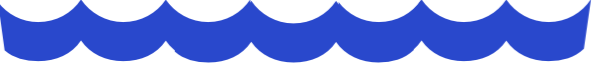
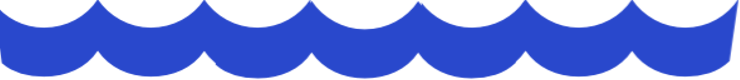
final

Changed region(s): [[0.0, 0.0, 1.0, 0.9867], [0.1206, 0.0, 0.7538, 0.3733], [0.7236, 0.0, 0.8744, 0.3733]]

diff --git a/css/style.css b/css/style.css
@@ -31,30 +31,93 @@ to {background-position: 100% 0;}
 
   }
 }
+@keyframes cloudone {
+  0% {
+    transform: scale(1.1);
+  }
+
+  25% {
+    transform: scale(1.15);
+  }
+  50% {
+    transform: scale(1.1);
+  }
+
+  75% {
+    transform: scale(1.15);
+  }
+
+  100% {
+    transform: scale(1.1);
+
+  }
+}
+@keyframes cloudtwo {
+  0% {
+    transform: scale(1.15);
+  }
+
+  25% {
+    transform: scale(1.1);
+  }
+  50% {
+    transform: scale(1.15);
+  }
+
+  75% {
+    transform: scale(1.1);
+  }
+
+  100% {
+    transform: scale(1.15);
+
+  }
+}
+@keyframes cloudthree {
+  0% {
+    transform: scale(1.3);
+  }
+
+  25% {
+    transform: scale(1.2);
+  }
+  50% {
+    transform: scale(1.4);
+  }
+
+  75% {
+    transform: scale(1.3);
+  }
+
+  100% {
+    transform: scale(1.2);
+
+  }
+}
 
 .a {
 position: absolute;
 z-index: 10;
-top: 0;
+top: 10px;
 left: 20%;
-height: 150px;
-animation: grow 6s ease-in-out infinite alternate;
+height: 20vh;
+animation: cloudone 6s ease-in-out infinite alternate;
 }
 .l {
 	position: absolute;
 	z-index: 10;
 	top: 100px;
 	left: 30%;
-	height: 150px;
-	animation: grow 6s ease-in-out infinite alternate;
+	height: 20vh;
+	animation: cloudtwo 6s ease-in-out infinite alternate;
 }
 .o {
 	position: absolute;
 	z-index: 10;
-	top: 0;
-	left: 40%;
-	height: 150px;
-	animation: grow 6s ease-in-out infinite alternate;
+	top: 10px;
+	left: 38%;
+	height: 20vh;
+	animation: cloudthree 6s ease-in-out infinite alternate;
 
 }
 .h {
@@ -62,53 +125,21 @@ animation: grow 6s ease-in-out infinite alternate;
 	z-index: 10;
 	top: 100px;
 	left: 50%;
-	height: 150px;
-	animation: grow 6s ease-in-out infinite alternate;
+	height: 20vh;
+	animation: cloudtwo 6s ease-in-out infinite alternate;
 
 }
 .end-a {
 	position: absolute;
 	z-index: 10;
-	top: 0;
-	left: 60%;
-	height: 150px;
-	animation: grow 6s ease-in-out infinite alternate;
+	top: 10px;
+	left: 62%;
+	height: 20vh;
+	animation: cloudone 6s ease-in-out infinite alternate;
 }
 .a, .l, .o, .h, .end-a {
 	opacity: 0.7;
 }
-/*#top, #bottom, #left, #right {
-	background: black;
-	position: fixed;
-	z-index: 20;
-	}*/
-/*#left, #right {
-		top: 0;
-		bottom: 0;
-		width: 50px;
-		}
-#left {
-		left: 0;
-		}
-#right {
-		right: 0;
-		}
-
-#bottom {
-	bottom: 0;
-	left: 0;
-	right: 0;
-	height: 25px;
-	}
-#top {
-	top: 0;
-	left: 0;
-	right: 0;
-	height: 100px;
-
-		}*/
-
-
 
 #logo {
 	height: 100px;
@@ -360,7 +391,7 @@ to {background-position: -100% 0;}
   width: 100%;
   height: 150px;
   position: absolute;
-  bottom: 0;
+  bottom: -20px;
   z-index: 3;
   background-color: rgb(30, 199, 244);
   opacity: 0.8;
@@ -370,7 +401,7 @@ to {background-position: -100% 0;}
   background-position: bottom;
   position: absolute;
   z-index: 10;
-  bottom: -50px;
+  bottom: 0;
   height: 100px;
   width: 95%;
   background-repeat: repeat-x;
@@ -383,7 +414,7 @@ to {background-position: -100% 0;}
   background-position: bottom;
   position: absolute;
   z-index: 9;
-  bottom: 25px;
+  bottom: 50px;
   height: 100px;
   width: 95%;
   overflow: hidden;

diff --git a/index.html b/index.html
@@ -19,12 +19,9 @@
 <img class="end-a" src="images/a.png" alt="" />
 
 	<div class="sky">
-    <!-- border around page -->
-    <!-- <div id="left"></div>
-    <div id="right"></div>
-    <div id="top"> -->
+  <a href="www.lexefx.com">
     <img id="logo" src="images/lexefx.png" />
-
+  </a>
       <div class="links">
       <a href="https://twitter.com/iputdalexinflex" target="_blank">
       <img id="contacts" src="images/twitter.png" />
@@ -43,42 +40,24 @@
       </a>
       </div>
     </div>
-    <!-- <div id="bottom"></div> -->
+
 
 <!-- island and hula dancer -->
 	<img id="island"src="images/desertedisland.png" alt="" />
 
 	<img id="image" src="http://www.angelfire.com/hi4/mele/images/hula09.gif" />
-	<img class="click-here" src="images/hoverimg.png" />
+
 
 	<div id="profile">
-	<img class="my_image" src="images/lex1.png"/>
+  <h3>My porfolio has beed updated <a href="www.lexefx.com" target="_blank"><button type="button" name="button">click here</button></a></h3>
 
-	<span>
-	<p>
-			Raised on a little island in the middle of the sea called Maui. I spent my time frolicking in the ocean living a pirate's life. I started to feel like something was missing, I couldn't figure it out right away but I knew it was because I wanted to be more then a pirate. I had dreams and projects I wanted to accomplish, but I didn't have the skills I needed to do so. I decided to enroll in a Web Development Immersive at General Assembly. I hopped, skipped and jumped away over to a larger island called Australia to fill the void I was feeling and begin the journey of becomming a Web Developer.
-	</p>
-  </br>
-	 <p>
-			It was not an easy Journey. Their were moments where I doubted my decision to come to a far away land and not be a pirate anymore. I missed the sun, wind and waves, and commandeering ships full of rum, but I pushed through and persevered. I got to manifest my ideas into reality something I didn't ever know if I would accomplish. I did it and I finished.
-	 </p>
-  </br>
-	  <p>
-			Now I've graduated and I'm sent off into the real world. I spend my time now building projects, learning new technoligies, and trying to make the world a better place. I have always had a passion for building things, for knowledge and for helping people.
-	  </p>
-	  <button class="close">close</button>
-	</span>
+
 	</div>
 
 	<div class="floating">
 	<img class="boat" src="images/boatlaptop.png"/>
 	<div class="projects">
-      <a href="./iss.html" target="_blank"><button type="button" name="button">
-    Internation Space Station
-      </button>
-      </a
-    >
-		<button class="close-projects">close</button>
+    <h3>My porfolio has beed updated <a href="www.lexefx.com" target="_blank"><button type="button" name="button">click here</button></a></h3>
 	</div>
 	</div>
 	<div id="ocean">
